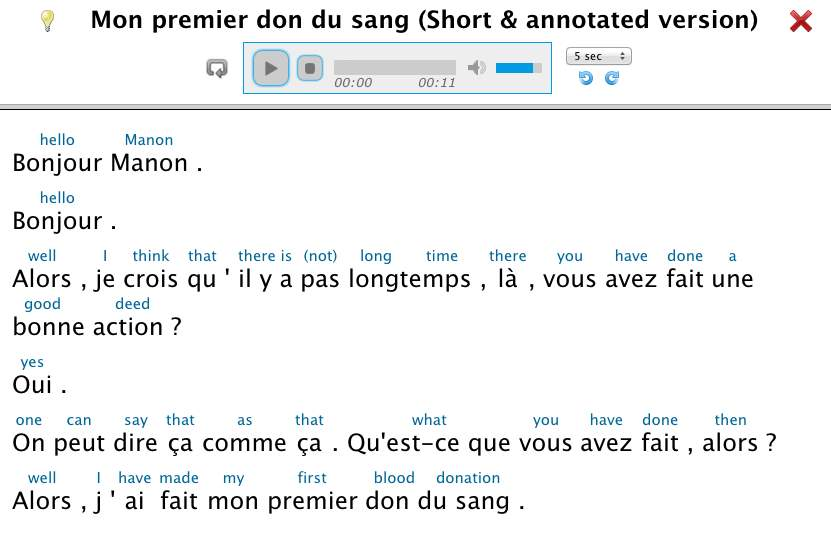
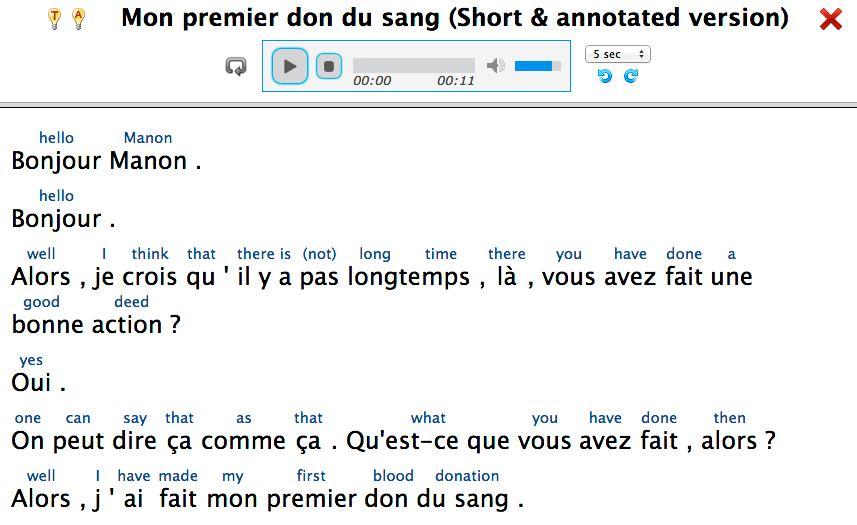
Version 1.5.1 (07-Jun-2013 10:45)

Changed region(s): [[0.0, 0.2438, 0.9326, 0.9752], [0.0, 0.0, 1.0, 0.2133]]

diff --git a/info.htm b/info.htm
@@ -197,7 +197,7 @@ $(document).ready( function() {
 
       <dd>
         <ul>
-          <li>The current version is <b>1.5.0 (April 22 2013)</b>.
+          <li>The current version is <b>1.5.1 (June ?? 2013)</b>.
           </li>
 
           <li>
@@ -319,7 +319,10 @@ $(document).ready( function() {
           		  Similar Software Or Services
           		  <ul>
           		  	<li>
-          		  		<a href="http://lingq.com" target="_blank">LingQ.com</a> (Web based service with tutoring. A basic account costs US$ 10 per month).
+          		  		<a href="http://code.google.com/p/fltr/" target="_blank">FLTR - Foreign Language Text Reader</a> (Open Source Java Desktop Application).
+          		  	</li>
+          		  	<li>
+          		  		<a href="http://lingq.com" target="_blank">LingQ.com</a> (Web based service with tutoring. An account costs US$ 10 per month).
           		  	</li>
           		  	<li>
           		  		<a href="http://lingro.com/" target="_blank">lingro.com</a> (An on-line environment that allows anyone learning a language to quickly look up and learn the vocabulary).
@@ -450,7 +453,7 @@ $(document).ready( function() {
           <li>You may upload words and expressions into LWT (from LingQ or other sources, CSV/TSV) - they are immediately available in all texts!
           </li>
           
-          <li><b>New since Version 1.5.0:</b> Create and edit an improved annotated text version (as <a target="_blank" href="http://en.wikipedia.org/wiki/Interlinear_gloss">interlinear text</a>) for online or offline learning. Read more <a href="#il">here</a>.
+          <li><b>New since Version 1.5.0:</b> Create and edit an improved annotated text version (a <a target="_blank" href="http://learnanylanguage.wikia.com/wiki/Hyperliteral_translations">hyperliteral translation</a> as <a target="_blank" href="http://en.wikipedia.org/wiki/Interlinear_gloss">interlinear text</a>) for online or offline learning. Read more <a href="#il">here</a>.
           </li>
           
           <li>The application is 100 % free, open source, and in the Public Domain. Do with it what you like!
@@ -1401,7 +1404,7 @@ Another example: The URI to query "travailler" in sansagent is "http://dictionar
             <br />
            	<a name="il"></a><b>How to create, edit, and use an <i>Improved Annotated Text</i>:</b>
             <br /><br />
-            <b>Motivation:</b> Annotated texts (as interlinear text) have been used for language learning for a long time. One example are the word-by-word translations in <a target="_blank" href="http://en.assimil.com/">Assimil</a> courses. The German <a target="_blank" href="http://web.archive.org/web/20070223080453/http://195.149.74.241/BIRKENBIHL/PDF/MethodEnglish.pdf">V. F. Birkenbihl</a> proposes the creation of interlinear word-by-word translations (calling this creation "decoding") in foreign language learning. Learning Latin or Ancient Greek via interlinear texts is quite old as you can see in <a target="_blank" href="http://www.youtube.com/watch?v=XnEKnezLXJg">this YouTube video</a>. 
+            <b>Motivation:</b> Annotated texts (as <a target="_blank" href="http://en.wikipedia.org/wiki/Interlinear_gloss">interlinear text</a>) have been used for language learning for a long time. One example are the word-by-word translations in <a target="_blank" href="http://en.assimil.com/">Assimil</a> courses. The German <a target="_blank" href="http://web.archive.org/web/20070223080453/http://195.149.74.241/BIRKENBIHL/PDF/MethodEnglish.pdf">V. F. Birkenbihl</a> proposes the creation of interlinear word-by-word or <a target="_blank" href="http://learnanylanguage.wikia.com/wiki/Hyperliteral_translations">hyperliteral</a> translations (calling this creation "decoding") in foreign language learning. Learning Latin or Ancient Greek via interlinear texts is quite old as you can see in <a target="_blank" href="http://www.youtube.com/watch?v=XnEKnezLXJg">this YouTube video</a>. 
             <br /><br />
             LWT's old "Print Screen" offers annotations, but it displays ALL translations of a term. The <i>Improved Annotated Text</i> feature enables you to select the best translation for every word in the text. As a result, you create an L1 word-by-word translation that is displayed above the L2 text. This interlinear text is better suited for language study, especially for beginners.
             <br /><br />
@@ -1425,7 +1428,7 @@ Another example: The URI to query "travailler" in sansagent is "http://dictionar
             <br /><br />
             <img class="grayborder" src="img/27.jpg" alt="Image" />
             <br /><br />
-            <b>Display Mode</b> (with audio player) in a separate window. Clicking the lightbulb icon hides/shows the blue annotations. You may also click on/above a term to show or hide an individual annotation.
+            <b>Display Mode</b> (with audio player) in a separate window. Clicking the "T" or "A" lightbulb icons hides/shows the text or the blue annotations. You may also click on a single term or a single annotation to show or to hide it. This enables you to test yourself or to concentrate on one text only.
             <br /><br />
             <img class="grayborder" src="img/29.jpg" alt="Image" />
             <br /><br />
@@ -2265,6 +2268,13 @@ with audioplayer", if needed.</li>
       <dd>
         <ul>
         
+        	<li>1.5.1 (June ?? 2013): 
+        	Display screen of improved annotated texts (= <a target="_blank" href="http://learnanylanguage.wikia.com/wiki/Hyperliteral_translations">hyperliteral translations</a> as <a target="_blank" href="http://en.wikipedia.org/wiki/Interlinear_gloss">interlinear text</a>) improved: Clicking the "T" or "A" lightbulb icons hides/shows the complete text or all annotations. You may also click on a single term or a single annotation to show or to hide it. This enables you to test yourself or to concentrate on one text only.
+        	<br />
+        	Documentation and screenshots updated. 
+        	<br /><br />
+        	</li>
+
         	<li>1.5.0 (April 22 2013): 
         	<b>New Feature:</b> Create and edit an improved annotated text version (as <a target="_blank" href="http://en.wikipedia.org/wiki/Interlinear_gloss">interlinear text</a>) for online or offline learning. <b>Read more <a href="#il">here</a></b>. 
         	<br />

diff --git a/utilities.inc.php b/utilities.inc.php
@@ -19,7 +19,7 @@ Plus (at end): Database Connect, .. Select, .. Update
 
 function get_version() {
 	global $debug;
-	return '1.5.0 (April 22 2013)'  . 
+	return '1.5.1 (June ?? 2013)'  . 
 	($debug ? ' <span class="red">DEBUG</span>' : '');
 }
 
